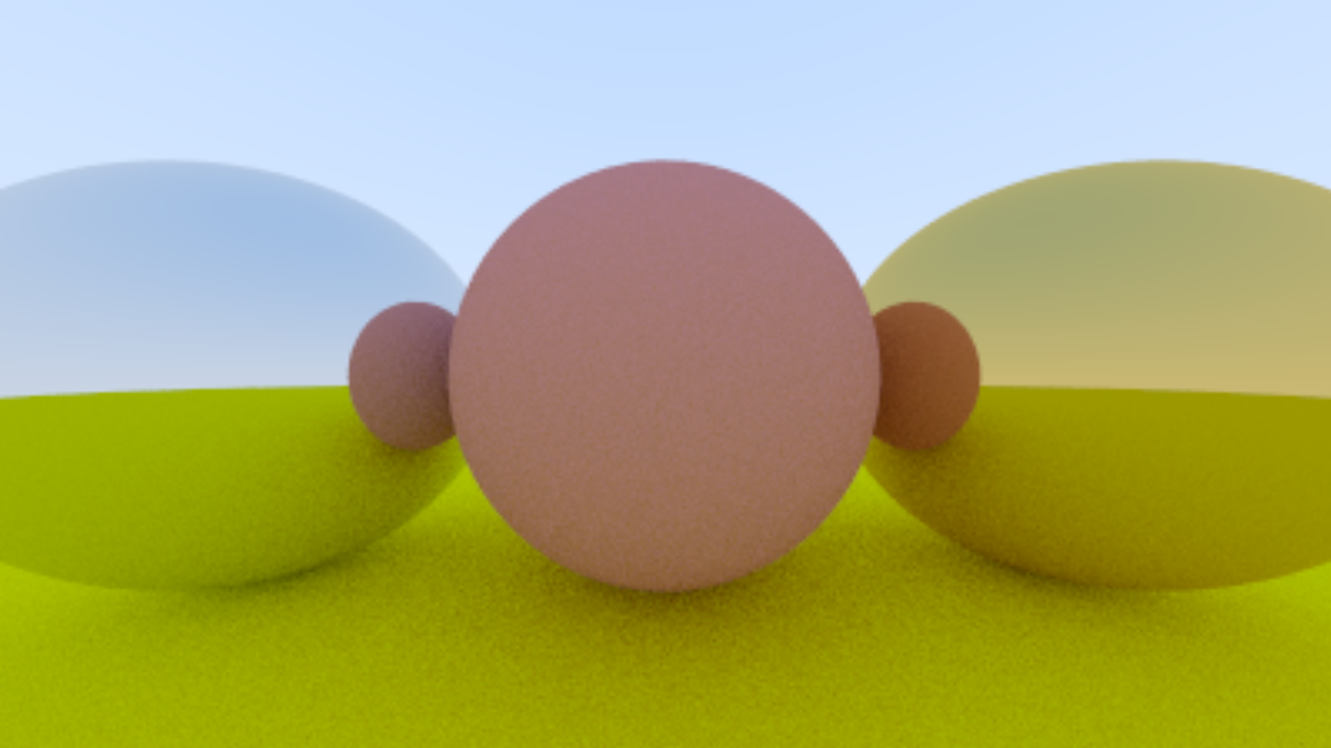
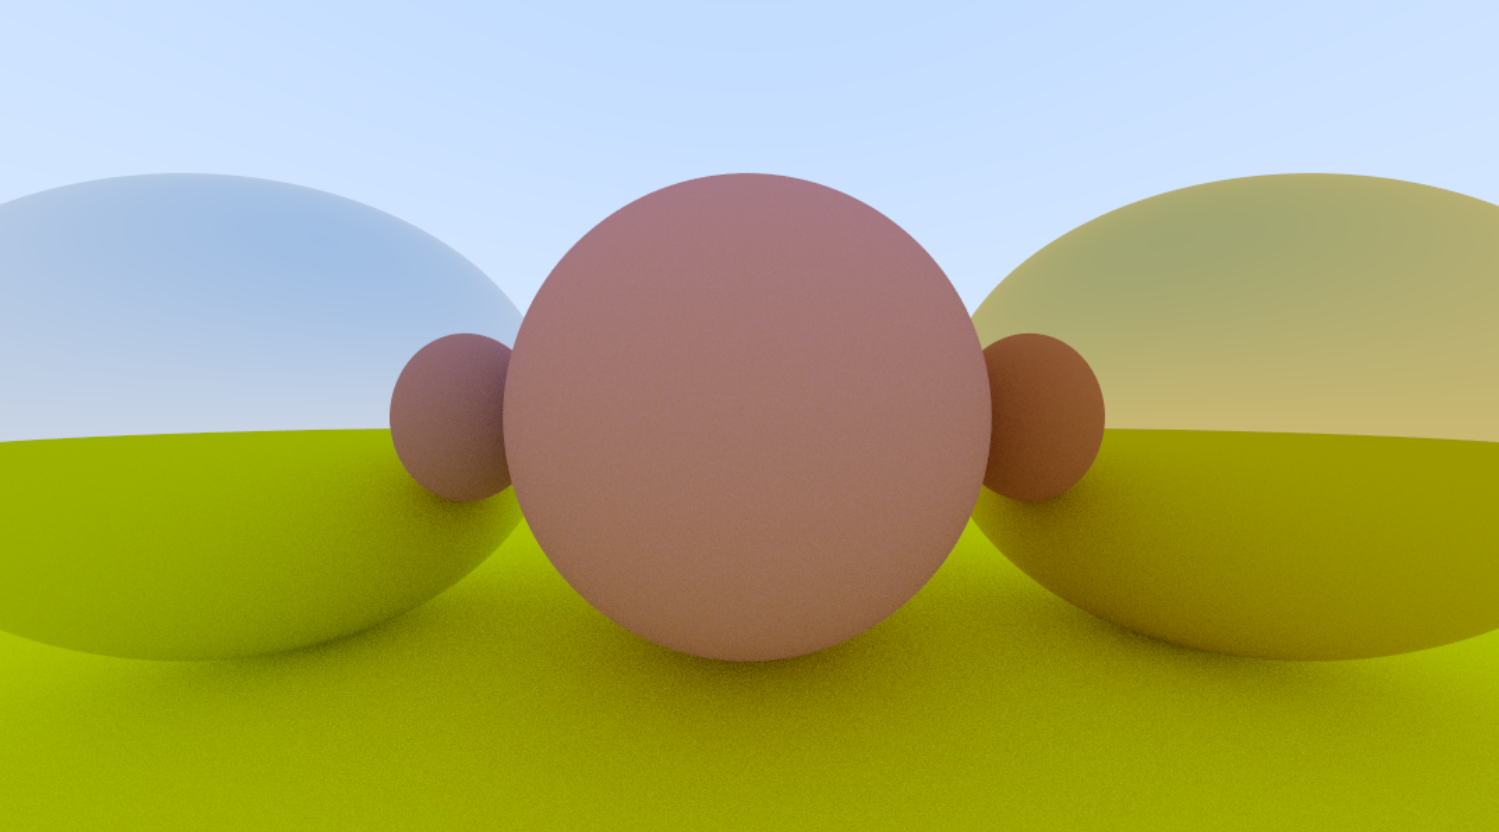
Changed img resolution

diff --git a/src/main.cpp b/src/main.cpp
@@ -64,7 +64,7 @@ color ray_color(const ray& r, const hittable& world, int depth){
 int main() {
     //Image
     const auto aspect_ratio = 16.0 / 9.0;
-    const int image_width = 400;
+    const int image_width = 1080;
     const int image_height = static_cast<int>(image_width/aspect_ratio);
     const int samples_per_pixel = 100;
     const int max_depth = 50;
